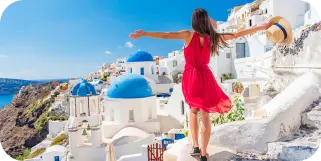
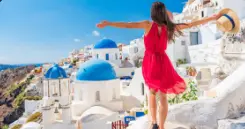
html-update

diff --git a/index.html b/index.html
@@ -158,19 +158,18 @@
                 media="(min-width: 414px)"
                 type="type/avif"
               />
-              <source srcset="./img/women-beach/" media="()" type="type/avif" />
               <source
                 srcset="./img/women-beach/women-beach.webp"
                 media="(min-width: 414px)"
                 type="type/webp"
               />
-              <source srcset="./img/women-beach/" media="()" type="type/webp" />
               <img
                 class="advantages__wrapper-women-beach"
-                src="./img/women-beach/women-beach.png"
+                src="./img/women-beach/women-beach.jpg"
                 alt=""
               />
             </picture>
+
             <div>
               <h3 class="advantages__card-title">Trip To Greece</h3>
               <div class="advantages__card-wrapper-info">
@@ -194,7 +193,6 @@
         </div>
       </section>
 
-
       <section class="testimonials">
         <div class="testimonials__container">
           <div class="testimonials__wrapper-title">
@@ -202,8 +200,29 @@
             <h1 class="testimonials__title">What people say about us</h1>
           </div>
           <div class="testimonials__wrapper-card">
-            <img src="" alt="">
-            <p class="testimonials__card-text">“On the Windows talking painted pasture yet its express parties use. Sure last upon he same as knew next. Of believed or diverted no.”</p>
+            <picture>
+              <source
+                srcset="./img/tasty-man/tasty-man.avif"
+                media="(min-width: 414px)"
+                type="type/avif"
+              />
+              <source
+                srcset="./img/tasty-man/tasty-man.webp"
+                media="(min-width: 414px)"
+                type="type/webp"
+              />
+              <img
+                class="tasty-man"
+                src="./img/tasty-man/tasty-man.jpg"
+                alt="Тут могла бути ваша реклама"
+              />
+            </picture>
+
+            <p class="testimonials__card-text">
+              “On the Windows talking painted pasture yet its express parties
+              use. Sure last upon he same as knew next. Of believed or diverted
+              no.”
+            </p>
             <div class="testimonials__wrapper-title">
               <h2>Mike Taylor</h2>
               <p>xLahore, Pakistan</p>
@@ -212,33 +231,27 @@
         </div>
       </section>
 
-
-
-
-
-
-
-
-
-
-
-
-
-
-
-
-
-      <!-- hueta -->
-      <!-- <section class="partners">
+      <section class="partners">
         <div class="partners__container">
-          <h1>Top Selling</h1>
+          <h2>Top Selling</h2>
           <img src="./img/axon.svg" alt="" />
           <img src="./img/jetstar.svg" alt="" />
           <img src="./img/expedia.svg" alt="" />
           <img src="./img/qantas.svg" alt="" />
-          <button class="subscribe">Subscribe</button>
+          <button class="partners__subscribe">Subscribe</button>
         </div>
-      </section> -->
+      </section>
+      <section class="subscribe">
+        <div class="subscribe__container">
+          <p class="subscribe__text">
+            Subscribe to get information, latest news and other interesting
+            offers about Cobham
+          </p>
+          <button class="subscribe__btn">Subscribe</button>
+        </div>
+      </section>
+
+
 
       <footer>
         <div class="footer__container">
